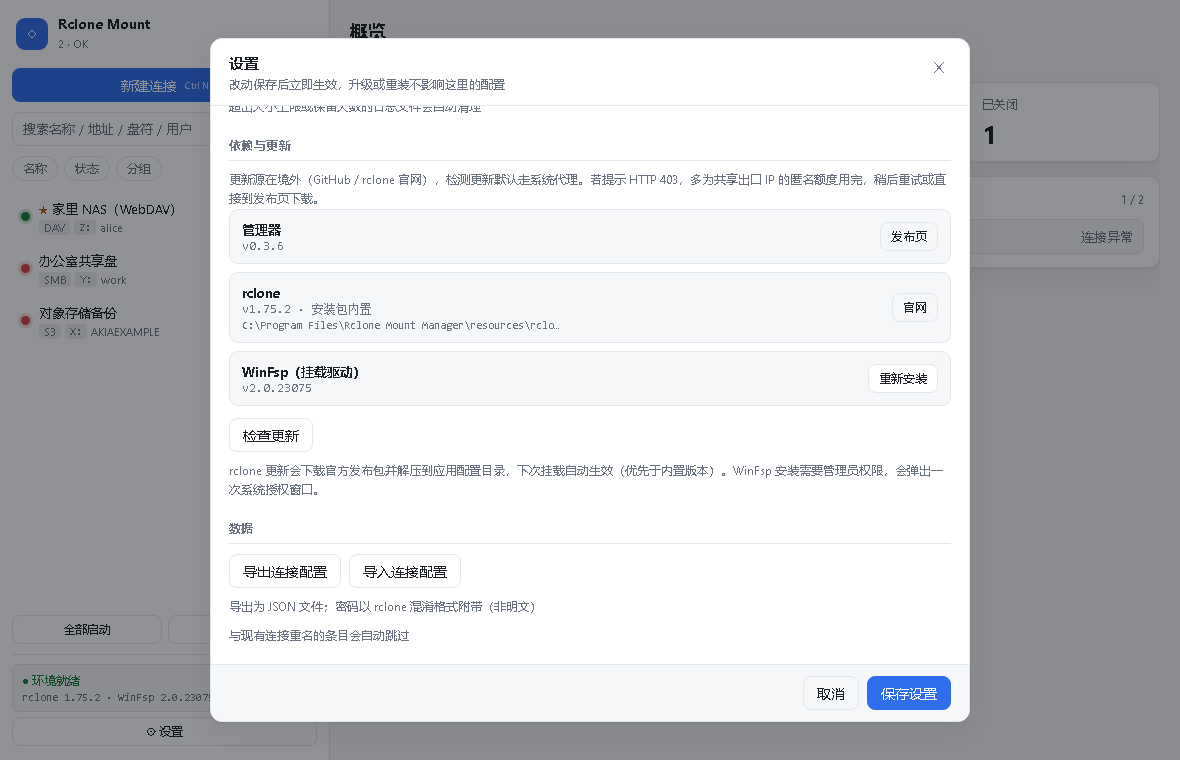
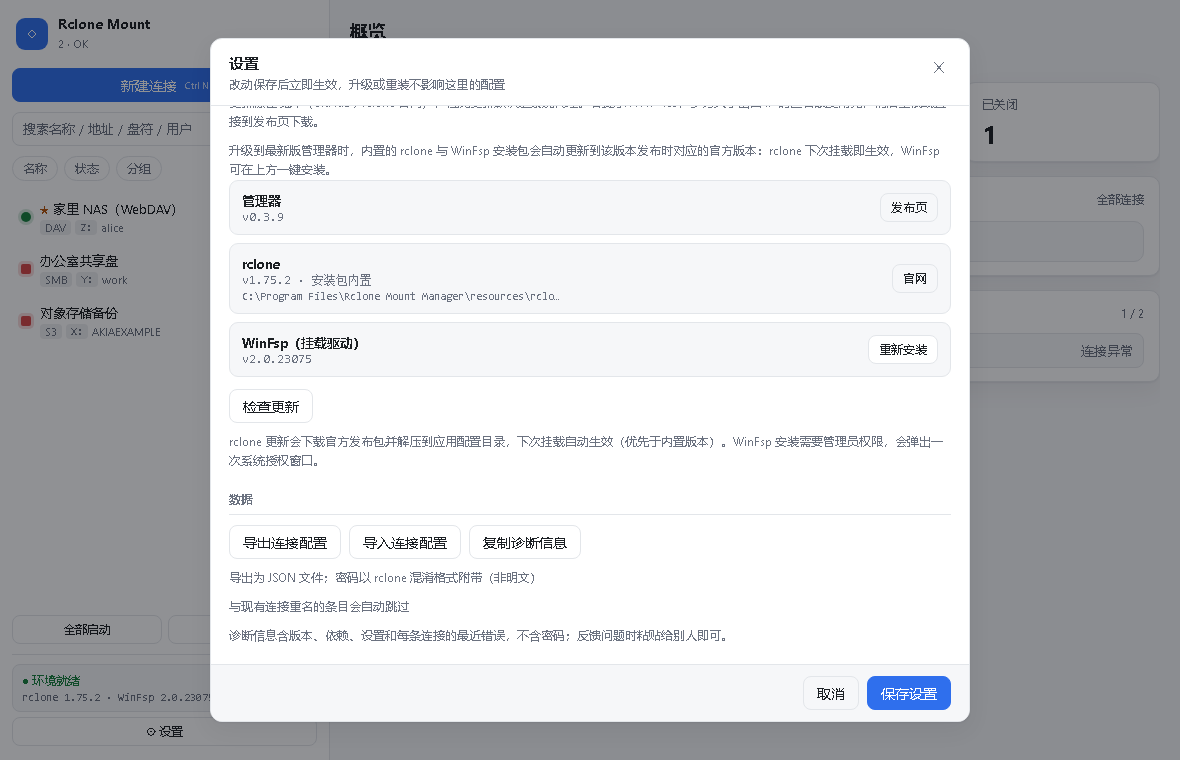
chore(release): 0.3.9 — 发送到独立小窗、自启动与 Linux 修复、驱动按平台显示

diff --git a/src/mock.ts b/src/mock.ts
@@ -158,7 +158,7 @@ function reply(cmd: string, args?: Record<string, unknown>): unknown {
     case "get_env":
       return {
         platform: "windows x86_64",
-        app_version: "0.3.8",
+        app_version: "0.3.9",
         rclone_path: "C:\\Program Files\\Rclone Mount Manager\\resources\\rclone\\rclone.exe",
         rclone_version: "1.75.2",
         rclone_source: "bundled",

diff --git a/README.md b/README.md
@@ -1,10 +1,10 @@
 # Rclone Mount Manager
 
-把 NAS / 网络存储 / 对象存储挂成本地盘符的跨平台桌面工具，基于 [rclone](https://rclone.org) 与平台原生 FUSE 驱动。
+把 NAS / 网络存储 / 对象存储挂成本地盘符的跨平台桌面工具，基于 [rclone](https://rclone.org) 完成传输与挂载，并按平台借助对应的挂载驱动：**Windows 用 WinFsp，macOS 用 macFUSE / FUSE-T，Linux 用内核自带的 FUSE（libfuse）**。核心能力不依赖任何单一驱动，每个平台的驱动只是该平台下 rclone 挂载所必需的系统组件。
 **没有账号、没有登录、没有广告、不联网验证**——打开就用，断网也能用。
 
 > A cross-platform desktop GUI that mounts SMB / WebDAV / FTP / SFTP / S3 as local drives.
-> Powered by rclone + WinFsp / macFUSE / fuse3. No account, no sign-in, no ads, fully offline.
+> Powered by rclone, with the platform mount driver it needs: WinFsp (Windows), macFUSE / FUSE-T (macOS), kernel FUSE + libfuse (Linux). No account, no sign-in, no ads, fully offline.
 
 [![build](https://github.com/Jie-baobao/rclone-mount-manager/actions/workflows/build.yml/badge.svg)](https://github.com/Jie-baobao/rclone-mount-manager/actions/workflows/build.yml)
 [![release](https://img.shields.io/github/v/release/Jie-baobao/rclone-mount-manager)](https://github.com/Jie-baobao/rclone-mount-manager/releases)

diff --git a/CHANGELOG.md b/CHANGELOG.md
@@ -2,7 +2,7 @@
 
 每个版本改了什么，按时间倒序列出。安装包在 [Releases](https://github.com/Jie-baobao/rclone-mount-manager/releases) 页面下载。
 
-## v0.3.9 — 未发布
+## v0.3.9 — 2026-10-28
 
 ### 新增
 
@@ -26,6 +26,9 @@
 - **Linux 挂载报 `cannot open: /mnt/nas: no such file or directory`**：挂载前自动创建挂载点目录；
   没权限创建时直接提示 `sudo mkdir -p <挂载点>`。
 - **deepin 托盘左键 / 双击没反应**：Linux 上改用 tray-icon 的 KSNI 后端（libappindicator 后端不发点击事件）。
+- **README 开头的依赖描述不严谨**：原来笼统写成「基于 rclone 与平台原生 FUSE 驱动」，把 Windows 漏掉了。
+  现在按平台说明：Windows 用 WinFsp，macOS 用 macFUSE / FUSE-T，Linux 用内核 FUSE（libfuse），
+  并说明核心能力不依赖任何单一驱动。
 
 ## v0.3.8 — 2026-10-27
 
